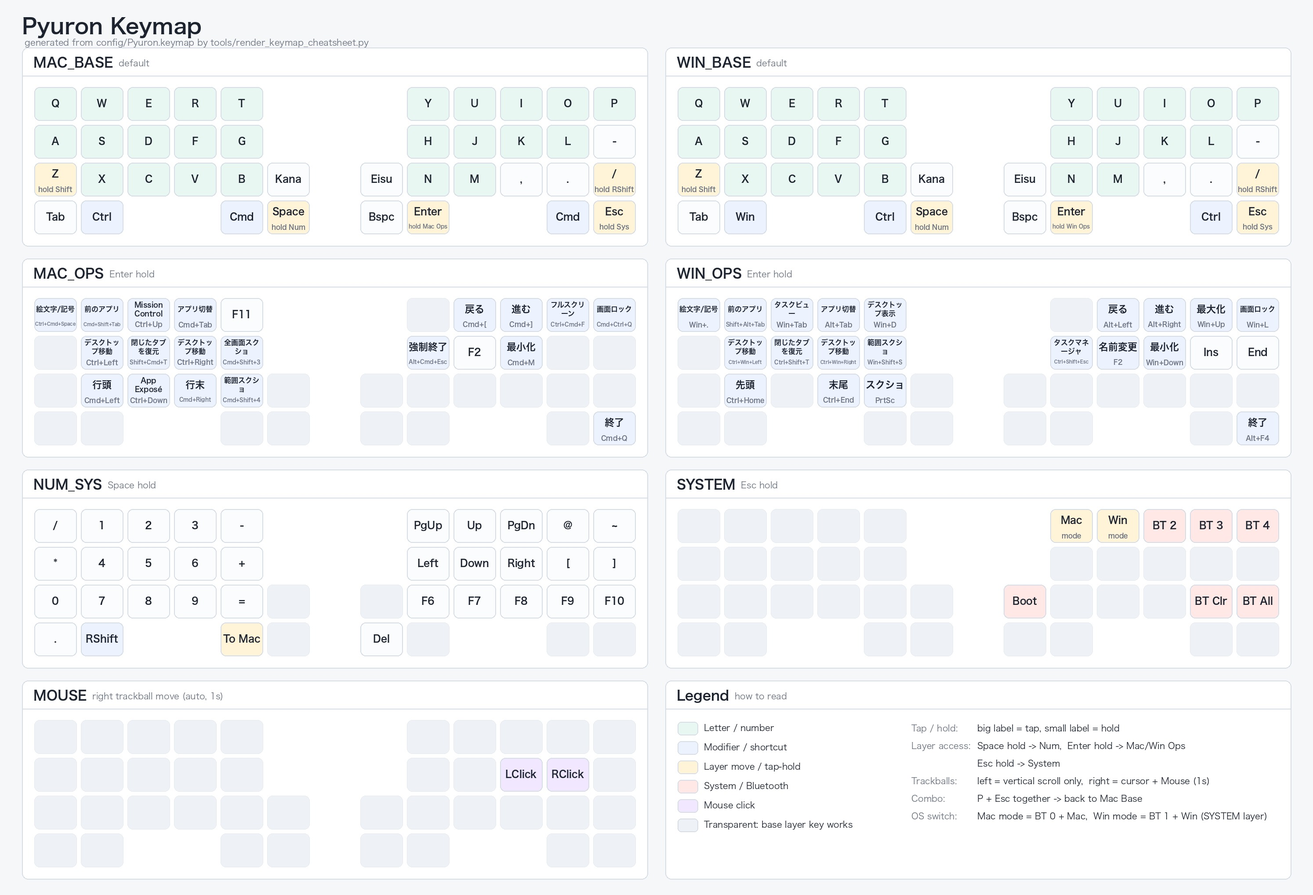
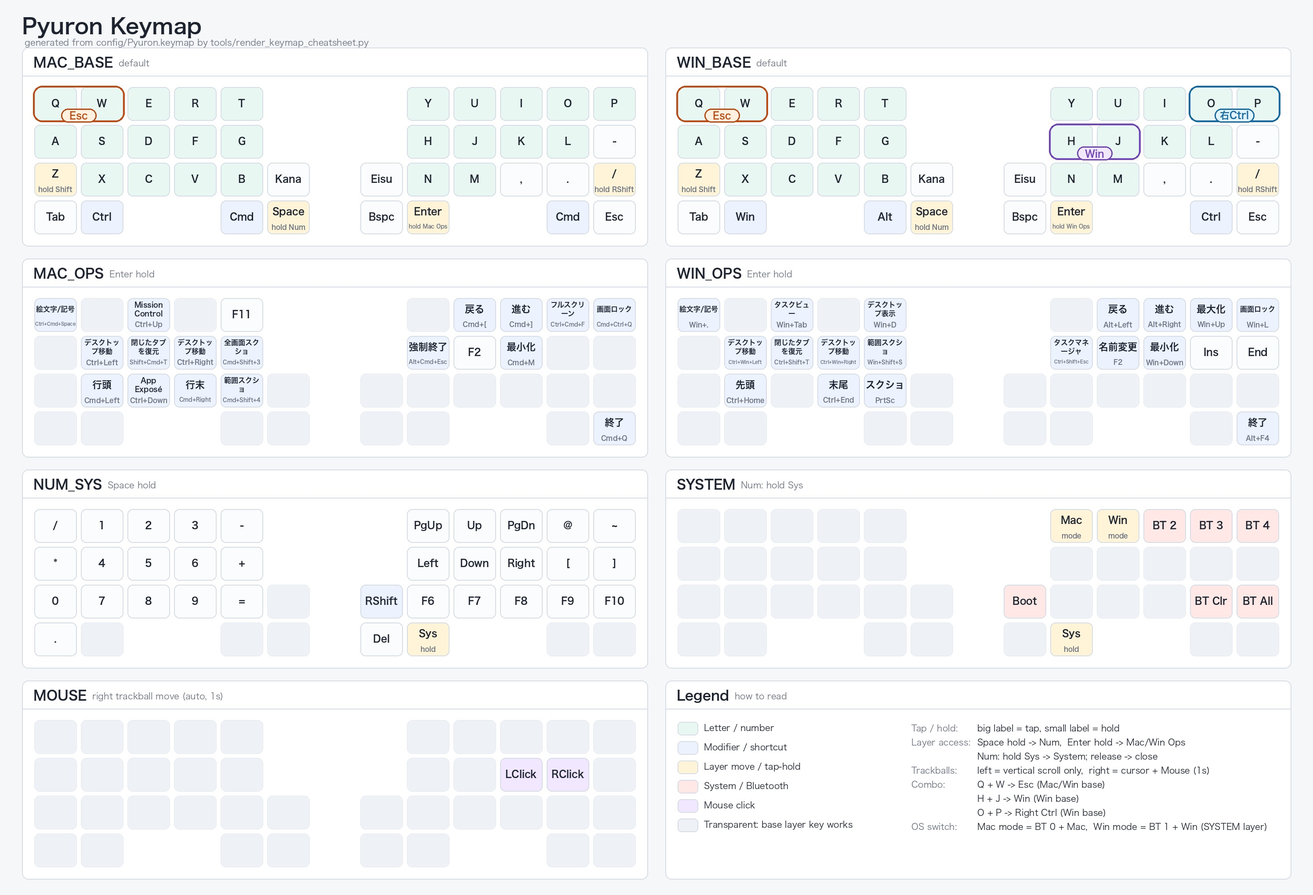
feat: 決定したキー配置とコンボ表示を反映

diff --git a/docs/keymap-cheatsheet.html b/docs/keymap-cheatsheet.html
@@ -431,7 +431,7 @@
       <div class="meta">
         <span class="pill">40 keys</span>
         <span class="pill">7 layers</span>
-        <span class="pill">combo Q + W -> Esc (MAC_BASE, WIN_BASE), H + J -> Win (WIN_BASE), O + P -> Right Ctrl (WIN_BASE), P + Esc -> To Mac (all layers)</span>
+        <span class="pill">combo Q + W -> Esc (MAC_BASE, WIN_BASE), H + J -> Win (WIN_BASE), O + P -> Right Ctrl (WIN_BASE)</span>
       </div>
     </header>
 
@@ -467,7 +467,7 @@
     // Do not hand-edit positions/layers below; re-run the script instead.
     const positions = [{"row": 0, "col": 0, "x": 0, "y": 0}, {"row": 0, "col": 1, "x": 1, "y": 0}, {"row": 0, "col": 2, "x": 2, "y": 0}, {"row": 0, "col": 3, "x": 3, "y": 0}, {"row": 0, "col": 4, "x": 4, "y": 0}, {"row": 0, "col": 5, "x": 8, "y": 0}, {"row": 0, "col": 6, "x": 9, "y": 0}, {"row": 0, "col": 7, "x": 10, "y": 0}, {"row": 0, "col": 8, "x": 11, "y": 0}, {"row": 0, "col": 9, "x": 12, "y": 0}, {"row": 1, "col": 0, "x": 0, "y": 1}, {"row": 1, "col": 1, "x": 1, "y": 1}, {"row": 1, "col": 2, "x": 2, "y": 1}, {"row": 1, "col": 3, "x": 3, "y": 1}, {"row": 1, "col": 4, "x": 4, "y": 1}, {"row": 1, "col": 5, "x": 8, "y": 1}, {"row": 1, "col": 6, "x": 9, "y": 1}, {"row": 1, "col": 7, "x": 10, "y": 1}, {"row": 1, "col": 8, "x": 11, "y": 1}, {"row": 1, "col": 9, "x": 12, "y": 1}, {"row": 2, "col": 0, "x": 0, "y": 2}, {"row": 2, "col": 1, "x": 1, "y": 2}, {"row": 2, "col": 2, "x": 2, "y": 2}, {"row": 2, "col": 3, "x": 3, "y": 2}, {"row": 2, "col": 4, "x": 4, "y": 2}, {"row": 2, "col": 5, "x": 5, "y": 2}, {"row": 2, "col": 6, "x": 7, "y": 2}, {"row": 2, "col": 7, "x": 8, "y": 2}, {"row": 2, "col": 8, "x": 9, "y": 2}, {"row": 2, "col": 9, "x": 10, "y": 2}, {"row": 3, "col": 0, "x": 11, "y": 2}, {"row": 3, "col": 1, "x": 12, "y": 2}, {"row": 3, "col": 2, "x": 0, "y": 3}, {"row": 3, "col": 3, "x": 1, "y": 3}, {"row": 3, "col": 4, "x": 4, "y": 3}, {"row": 3, "col": 5, "x": 5, "y": 3}, {"row": 3, "col": 6, "x": 7, "y": 3}, {"row": 3, "col": 7, "x": 8, "y": 3}, {"row": 3, "col": 8, "x": 11, "y": 3}, {"row": 3, "col": 9, "x": 12, "y": 3}];
 
-    const layers = [{"name": "MAC_BASE", "group": "mac", "note": "default", "keys": [["Q", "", "letter"], ["W", "", "letter"], ["E", "", "letter"], ["R", "", "letter"], ["T", "", "letter"], ["Y", "", "letter"], ["U", "", "letter"], ["I", "", "letter"], ["O", "", "letter"], ["P", "", "letter"], ["A", "", "letter"], ["S", "", "letter"], ["D", "", "letter"], ["F", "", "letter"], ["G", "", "letter"], ["H", "", "letter"], ["J", "", "letter"], ["K", "", "letter"], ["L", "", "letter"], ["-", "", ""], ["Z", "hold Shift", "layer"], ["X", "", "letter"], ["C", "", "letter"], ["V", "", "letter"], ["B", "", "letter"], ["Kana", "", ""], ["Eisu", "", ""], ["N", "", "letter"], ["M", "", "letter"], [",", "", ""], [".", "", ""], ["/", "hold RShift", "layer"], ["Tab", "", ""], ["Ctrl", "", "mod"], ["Cmd", "", "mod"], ["Space", "hold Num", "layer"], ["Bspc", "", ""], ["Enter", "hold Mac Ops", "layer"], ["Cmd", "", "mod"], ["Esc", "hold Sys", "layer"]]}, {"name": "MAC_OPS", "group": "mac", "note": "Enter hold", "keys": [["絵文字/記号", "Ctrl+Cmd+Space", "mod"], ["前のアプリ", "Cmd+Shift+Tab", "mod"], ["Mission Control", "Ctrl+Up", "mod"], ["アプリ切替", "Cmd+Tab", "mod"], ["F11", "", ""], ["trns", "", "transparent"], ["戻る", "Cmd+[", "mod"], ["進む", "Cmd+]", "mod"], ["フルスクリーン", "Ctrl+Cmd+F", "mod"], ["画面ロック", "Cmd+Ctrl+Q", "mod"], ["trns", "", "transparent"], ["デスクトップ移動", "Ctrl+Left", "mod"], ["閉じたタブを復元", "Shift+Cmd+T", "mod"], ["デスクトップ移動", "Ctrl+Right", "mod"], ["全画面スクショ", "Cmd+Shift+3", "mod"], ["強制終了", "Alt+Cmd+Esc", "mod"], ["F2", "", ""], ["最小化", "Cmd+M", "mod"], ["trns", "", "transparent"], ["trns", "", "transparent"], ["trns", "", "transparent"], ["行頭", "Cmd+Left", "mod"], ["App Exposé", "Ctrl+Down", "mod"], ["行末", "Cmd+Right", "mod"], ["範囲スクショ", "Cmd+Shift+4", "mod"], ["trns", "", "transparent"], ["trns", "", "transparent"], ["trns", "", "transparent"], ["trns", "", "transparent"], ["trns", "", "transparent"], ["trns", "", "transparent"], ["trns", "", "transparent"], ["trns", "", "transparent"], ["trns", "", "transparent"], ["trns", "", "transparent"], ["trns", "", "transparent"], ["trns", "", "transparent"], ["trns", "", "transparent"], ["trns", "", "transparent"], ["終了", "Cmd+Q", "mod"]]}, {"name": "WIN_BASE", "group": "win", "note": "default", "keys": [["Q", "", "letter"], ["W", "", "letter"], ["E", "", "letter"], ["R", "", "letter"], ["T", "", "letter"], ["Y", "", "letter"], ["U", "", "letter"], ["I", "", "letter"], ["O", "", "letter"], ["P", "", "letter"], ["A", "", "letter"], ["S", "", "letter"], ["D", "", "letter"], ["F", "", "letter"], ["G", "", "letter"], ["H", "", "letter"], ["J", "", "letter"], ["K", "", "letter"], ["L", "", "letter"], ["-", "", ""], ["Z", "hold Shift", "layer"], ["X", "", "letter"], ["C", "", "letter"], ["V", "", "letter"], ["B", "", "letter"], ["Kana", "", ""], ["Eisu", "", ""], ["N", "", "letter"], ["M", "", "letter"], [",", "", ""], [".", "", ""], ["/", "hold RShift", "layer"], ["Tab", "", ""], ["Win", "", "mod"], ["Ctrl", "", "mod"], ["Space", "hold Num", "layer"], ["Bspc", "", ""], ["Enter", "hold Win Ops", "layer"], ["Ctrl", "", "mod"], ["Esc", "hold Sys", "layer"]]}, {"name": "WIN_OPS", "group": "win", "note": "Enter hold", "keys": [["絵文字/記号", "Win+.", "mod"], ["前のアプリ", "Shift+Alt+Tab", "mod"], ["タスクビュー", "Win+Tab", "mod"], ["アプリ切替", "Alt+Tab", "mod"], ["デスクトップ表示", "Win+D", "mod"], ["trns", "", "transparent"], ["戻る", "Alt+Left", "mod"], ["進む", "Alt+Right", "mod"], ["最大化", "Win+Up", "mod"], ["画面ロック", "Win+L", "mod"], ["trns", "", "transparent"], ["デスクトップ移動", "Ctrl+Win+Left", "mod"], ["閉じたタブを復元", "Ctrl+Shift+T", "mod"], ["デスクトップ移動", "Ctrl+Win+Right", "mod"], ["範囲スクショ", "Win+Shift+S", "mod"], ["タスクマネージャ", "Ctrl+Shift+Esc", "mod"], ["名前変更", "F2", "mod"], ["最小化", "Win+Down", "mod"], ["Ins", "", ""], ["End", "", ""], ["trns", "", "transparent"], ["先頭", "Ctrl+Home", "mod"], ["trns", "", "transparent"], ["末尾", "Ctrl+End", "mod"], ["スクショ", "PrtSc", "mod"], ["trns", "", "transparent"], ["trns", "", "transparent"], ["trns", "", "transparent"], ["trns", "", "transparent"], ["trns", "", "transparent"], ["trns", "", "transparent"], ["trns", "", "transparent"], ["trns", "", "transparent"], ["trns", "", "transparent"], ["trns", "", "transparent"], ["trns", "", "transparent"], ["trns", "", "transparent"], ["trns", "", "transparent"], ["trns", "", "transparent"], ["終了", "Alt+F4", "mod"]]}, {"name": "NUM_SYS", "group": "utility", "note": "Space hold", "keys": [["/", "", ""], ["1", "", ""], ["2", "", ""], ["3", "", ""], ["-", "", ""], ["PgUp", "", ""], ["Up", "", ""], ["PgDn", "", ""], ["@", "", ""], ["~", "", ""], ["*", "", ""], ["4", "", ""], ["5", "", ""], ["6", "", ""], ["+", "", ""], ["Left", "", ""], ["Down", "", ""], ["Right", "", ""], ["[", "", ""], ["]", "", ""], ["0", "", ""], ["7", "", ""], ["8", "", ""], ["9", "", ""], ["=", "", ""], ["trns", "", "transparent"], ["trns", "", "transparent"], ["F6", "", ""], ["F7", "", ""], ["F8", "", ""], ["F9", "", ""], ["F10", "", ""], [".", "", ""], ["RShift", "", "mod"], ["To Mac", "", "layer"], ["trns", "", "transparent"], ["Del", "", ""], ["trns", "", "transparent"], ["trns", "", "transparent"], ["trns", "", "transparent"]]}, {"name": "SYSTEM", "group": "utility", "note": "Esc hold", "keys": [["trns", "", "transparent"], ["trns", "", "transparent"], ["trns", "", "transparent"], ["trns", "", "transparent"], ["trns", "", "transparent"], ["Mac", "mode", "layer"], ["Win", "mode", "layer"], ["BT 2", "", "system"], ["BT 3", "", "system"], ["BT 4", "", "system"], ["trns", "", "transparent"], ["trns", "", "transparent"], ["trns", "", "transparent"], ["trns", "", "transparent"], ["trns", "", "transparent"], ["trns", "", "transparent"], ["trns", "", "transparent"], ["trns", "", "transparent"], ["trns", "", "transparent"], ["trns", "", "transparent"], ["trns", "", "transparent"], ["trns", "", "transparent"], ["trns", "", "transparent"], ["trns", "", "transparent"], ["trns", "", "transparent"], ["trns", "", "transparent"], ["Boot", "", "system"], ["trns", "", "transparent"], ["trns", "", "transparent"], ["trns", "", "transparent"], ["BT Clr", "", "system"], ["BT All", "", "system"], ["trns", "", "transparent"], ["trns", "", "transparent"], ["trns", "", "transparent"], ["trns", "", "transparent"], ["trns", "", "transparent"], ["trns", "", "transparent"], ["trns", "", "transparent"], ["trns", "", "transparent"]]}, {"name": "MOUSE", "group": "utility", "note": "right trackball move (auto, 1s)", "keys": [["trns", "", "transparent"], ["trns", "", "transparent"], ["trns", "", "transparent"], ["trns", "", "transparent"], ["trns", "", "transparent"], ["trns", "", "transparent"], ["trns", "", "transparent"], ["trns", "", "transparent"], ["trns", "", "transparent"], ["trns", "", "transparent"], ["trns", "", "transparent"], ["trns", "", "transparent"], ["trns", "", "transparent"], ["trns", "", "transparent"], ["trns", "", "transparent"], ["trns", "", "transparent"], ["trns", "", "transparent"], ["LClick", "", "mouse"], ["RClick", "", "mouse"], ["trns", "", "transparent"], ["trns", "", "transparent"], ["trns", "", "transparent"], ["trns", "", "transparent"], ["trns", "", "transparent"], ["trns", "", "transparent"], ["trns", "", "transparent"], ["trns", "", "transparent"], ["trns", "", "transparent"], ["trns", "", "transparent"], ["trns", "", "transparent"], ["trns", "", "transparent"], ["trns", "", "transparent"], ["trns", "", "transparent"], ["trns", "", "transparent"], ["trns", "", "transparent"], ["trns", "", "transparent"], ["trns", "", "transparent"], ["trns", "", "transparent"], ["trns", "", "transparent"], ["trns", "", "transparent"]]}];
+    const layers = [{"name": "MAC_BASE", "group": "mac", "note": "default", "keys": [["Q", "", "letter"], ["W", "", "letter"], ["E", "", "letter"], ["R", "", "letter"], ["T", "", "letter"], ["Y", "", "letter"], ["U", "", "letter"], ["I", "", "letter"], ["O", "", "letter"], ["P", "", "letter"], ["A", "", "letter"], ["S", "", "letter"], ["D", "", "letter"], ["F", "", "letter"], ["G", "", "letter"], ["H", "", "letter"], ["J", "", "letter"], ["K", "", "letter"], ["L", "", "letter"], ["-", "", ""], ["Z", "hold Shift", "layer"], ["X", "", "letter"], ["C", "", "letter"], ["V", "", "letter"], ["B", "", "letter"], ["Kana", "", ""], ["Eisu", "", ""], ["N", "", "letter"], ["M", "", "letter"], [",", "", ""], [".", "", ""], ["/", "hold RShift", "layer"], ["Tab", "", ""], ["Ctrl", "", "mod"], ["Cmd", "", "mod"], ["Space", "hold Num", "layer"], ["Bspc", "", ""], ["Enter", "hold Mac Ops", "layer"], ["Cmd", "", "mod"], ["Esc", "", ""]]}, {"name": "MAC_OPS", "group": "mac", "note": "Enter hold", "keys": [["絵文字/記号", "Ctrl+Cmd+Space", "mod"], ["trns", "", "transparent"], ["Mission Control", "Ctrl+Up", "mod"], ["trns", "", "transparent"], ["F11", "", ""], ["trns", "", "transparent"], ["戻る", "Cmd+[", "mod"], ["進む", "Cmd+]", "mod"], ["フルスクリーン", "Ctrl+Cmd+F", "mod"], ["画面ロック", "Cmd+Ctrl+Q", "mod"], ["trns", "", "transparent"], ["デスクトップ移動", "Ctrl+Left", "mod"], ["閉じたタブを復元", "Shift+Cmd+T", "mod"], ["デスクトップ移動", "Ctrl+Right", "mod"], ["全画面スクショ", "Cmd+Shift+3", "mod"], ["強制終了", "Alt+Cmd+Esc", "mod"], ["F2", "", ""], ["最小化", "Cmd+M", "mod"], ["trns", "", "transparent"], ["trns", "", "transparent"], ["trns", "", "transparent"], ["行頭", "Cmd+Left", "mod"], ["App Exposé", "Ctrl+Down", "mod"], ["行末", "Cmd+Right", "mod"], ["範囲スクショ", "Cmd+Shift+4", "mod"], ["trns", "", "transparent"], ["trns", "", "transparent"], ["trns", "", "transparent"], ["trns", "", "transparent"], ["trns", "", "transparent"], ["trns", "", "transparent"], ["trns", "", "transparent"], ["trns", "", "transparent"], ["trns", "", "transparent"], ["trns", "", "transparent"], ["trns", "", "transparent"], ["trns", "", "transparent"], ["trns", "", "transparent"], ["trns", "", "transparent"], ["終了", "Cmd+Q", "mod"]]}, {"name": "WIN_BASE", "group": "win", "note": "default", "keys": [["Q", "", "letter"], ["W", "", "letter"], ["E", "", "letter"], ["R", "", "letter"], ["T", "", "letter"], ["Y", "", "letter"], ["U", "", "letter"], ["I", "", "letter"], ["O", "", "letter"], ["P", "", "letter"], ["A", "", "letter"], ["S", "", "letter"], ["D", "", "letter"], ["F", "", "letter"], ["G", "", "letter"], ["H", "", "letter"], ["J", "", "letter"], ["K", "", "letter"], ["L", "", "letter"], ["-", "", ""], ["Z", "hold Shift", "layer"], ["X", "", "letter"], ["C", "", "letter"], ["V", "", "letter"], ["B", "", "letter"], ["Kana", "", ""], ["Eisu", "", ""], ["N", "", "letter"], ["M", "", "letter"], [",", "", ""], [".", "", ""], ["/", "hold RShift", "layer"], ["Tab", "", ""], ["Win", "", "mod"], ["Alt", "", "mod"], ["Space", "hold Num", "layer"], ["Bspc", "", ""], ["Enter", "hold Win Ops", "layer"], ["Ctrl", "", "mod"], ["Esc", "", ""]]}, {"name": "WIN_OPS", "group": "win", "note": "Enter hold", "keys": [["絵文字/記号", "Win+.", "mod"], ["trns", "", "transparent"], ["タスクビュー", "Win+Tab", "mod"], ["trns", "", "transparent"], ["デスクトップ表示", "Win+D", "mod"], ["trns", "", "transparent"], ["戻る", "Alt+Left", "mod"], ["進む", "Alt+Right", "mod"], ["最大化", "Win+Up", "mod"], ["画面ロック", "Win+L", "mod"], ["trns", "", "transparent"], ["デスクトップ移動", "Ctrl+Win+Left", "mod"], ["閉じたタブを復元", "Ctrl+Shift+T", "mod"], ["デスクトップ移動", "Ctrl+Win+Right", "mod"], ["範囲スクショ", "Win+Shift+S", "mod"], ["タスクマネージャ", "Ctrl+Shift+Esc", "mod"], ["名前変更", "F2", "mod"], ["最小化", "Win+Down", "mod"], ["Ins", "", ""], ["End", "", ""], ["trns", "", "transparent"], ["先頭", "Ctrl+Home", "mod"], ["trns", "", "transparent"], ["末尾", "Ctrl+End", "mod"], ["スクショ", "PrtSc", "mod"], ["trns", "", "transparent"], ["trns", "", "transparent"], ["trns", "", "transparent"], ["trns", "", "transparent"], ["trns", "", "transparent"], ["trns", "", "transparent"], ["trns", "", "transparent"], ["trns", "", "transparent"], ["trns", "", "transparent"], ["trns", "", "transparent"], ["trns", "", "transparent"], ["trns", "", "transparent"], ["trns", "", "transparent"], ["trns", "", "transparent"], ["終了", "Alt+F4", "mod"]]}, {"name": "NUM_SYS", "group": "utility", "note": "Space hold", "keys": [["/", "", ""], ["1", "", ""], ["2", "", ""], ["3", "", ""], ["-", "", ""], ["PgUp", "", ""], ["Up", "", ""], ["PgDn", "", ""], ["@", "", ""], ["~", "", ""], ["*", "", ""], ["4", "", ""], ["5", "", ""], ["6", "", ""], ["+", "", ""], ["Left", "", ""], ["Down", "", ""], ["Right", "", ""], ["[", "", ""], ["]", "", ""], ["0", "", ""], ["7", "", ""], ["8", "", ""], ["9", "", ""], ["=", "", ""], ["trns", "", "transparent"], ["RShift", "", "mod"], ["F6", "", ""], ["F7", "", ""], ["F8", "", ""], ["F9", "", ""], ["F10", "", ""], [".", "", ""], ["trns", "", "transparent"], ["trns", "", "transparent"], ["trns", "", "transparent"], ["Del", "", ""], ["Sys", "hold", "layer"], ["trns", "", "transparent"], ["trns", "", "transparent"]]}, {"name": "SYSTEM", "group": "utility", "note": "Num: hold Sys", "keys": [["trns", "", "transparent"], ["trns", "", "transparent"], ["trns", "", "transparent"], ["trns", "", "transparent"], ["trns", "", "transparent"], ["Mac", "mode", "layer"], ["Win", "mode", "layer"], ["BT 2", "", "system"], ["BT 3", "", "system"], ["BT 4", "", "system"], ["trns", "", "transparent"], ["trns", "", "transparent"], ["trns", "", "transparent"], ["trns", "", "transparent"], ["trns", "", "transparent"], ["trns", "", "transparent"], ["trns", "", "transparent"], ["trns", "", "transparent"], ["trns", "", "transparent"], ["trns", "", "transparent"], ["trns", "", "transparent"], ["trns", "", "transparent"], ["trns", "", "transparent"], ["trns", "", "transparent"], ["trns", "", "transparent"], ["trns", "", "transparent"], ["Boot", "", "system"], ["trns", "", "transparent"], ["trns", "", "transparent"], ["trns", "", "transparent"], ["BT Clr", "", "system"], ["BT All", "", "system"], ["trns", "", "transparent"], ["trns", "", "transparent"], ["trns", "", "transparent"], ["trns", "", "transparent"], ["trns", "", "transparent"], ["Sys", "hold", "layer"], ["trns", "", "transparent"], ["trns", "", "transparent"]]}, {"name": "MOUSE", "group": "utility", "note": "right trackball move (auto, 1s)", "keys": [["trns", "", "transparent"], ["trns", "", "transparent"], ["trns", "", "transparent"], ["trns", "", "transparent"], ["trns", "", "transparent"], ["trns", "", "transparent"], ["trns", "", "transparent"], ["trns", "", "transparent"], ["trns", "", "transparent"], ["trns", "", "transparent"], ["trns", "", "transparent"], ["trns", "", "transparent"], ["trns", "", "transparent"], ["trns", "", "transparent"], ["trns", "", "transparent"], ["trns", "", "transparent"], ["trns", "", "transparent"], ["LClick", "", "mouse"], ["RClick", "", "mouse"], ["trns", "", "transparent"], ["trns", "", "transparent"], ["trns", "", "transparent"], ["trns", "", "transparent"], ["trns", "", "transparent"], ["trns", "", "transparent"], ["trns", "", "transparent"], ["trns", "", "transparent"], ["trns", "", "transparent"], ["trns", "", "transparent"], ["trns", "", "transparent"], ["trns", "", "transparent"], ["trns", "", "transparent"], ["trns", "", "transparent"], ["trns", "", "transparent"], ["trns", "", "transparent"], ["trns", "", "transparent"], ["trns", "", "transparent"], ["trns", "", "transparent"], ["trns", "", "transparent"], ["trns", "", "transparent"]]}];
 
     const app = document.querySelector("#app");
     const layersContainer = document.querySelector("#layers");

diff --git a/tools/render_keymap_cheatsheet.py b/tools/render_keymap_cheatsheet.py
@@ -178,7 +178,7 @@ LAYER_NOTES = {
     "WIN_BASE": "default",
     "WIN_OPS": "Enter hold",
     "NUM_SYS": "Space hold",
-    "SYSTEM": "Esc hold",
+    "SYSTEM": "Num: hold Sys",
     "MOUSE": "right trackball move (auto, 1s)",
 }
 
@@ -198,7 +198,7 @@ LAYER_DESCRIPTIONS = {
     "WIN_BASE": "Windows用の通常入力",
     "WIN_OPS": "Windows用操作レイヤー。`WIN_BASE` の `Enter` 長押し",
     "NUM_SYS": "数字・記号・カーソル。Baseの `Space` 長押し",
-    "SYSTEM": "Bluetooth・OS切替・Bootloader。Baseの `Esc` 長押し",
+    "SYSTEM": "Bluetooth・OS切替・Bootloader。NUM_SYSのDelete右隣を押している間だけ有効。離すと戻る",
     "MOUSE": "マウスクリック用。右トラックボールを動かすと1秒間自動で有効",
 }
 
@@ -358,6 +358,10 @@ def label_for(binding: str, layer_name: str) -> Label:
             return Label("BT All", kind="system")
         if len(parts) > 1 and parts[1] == "BT_CLR":
             return Label("BT Clr", kind="system")
+    if behavior == "&mo" and len(parts) > 1:
+        return Label(LAYER_NAMES.get(parts[1], f"L{parts[1]}"), hint="hold", kind="layer")
+    if behavior == "&tog" and len(parts) > 1:
+        return Label(LAYER_NAMES.get(parts[1], f"L{parts[1]}"), hint="toggle", kind="layer")
     if behavior == "&to" and len(parts) > 1:
         return Label(f"To {LAYER_NAMES.get(parts[1], f'L{parts[1]}')}", kind="layer")
     if behavior == "&lt" and len(parts) > 2:
@@ -561,7 +565,29 @@ def draw_layer(draw: ImageDraw.ImageDraw, x: int, y: int, name: str, labels: lis
         draw_key(draw, (key_x, key_y, key_x + KEY_W, key_y + KEY_H), label)
 
 
-def draw_legend(draw: ImageDraw.ImageDraw, x: int, y: int) -> None:
+def draw_combo_overlays(draw: ImageDraw.ImageDraw, x: int, y: int, name: str, positions: list[dict[str, int]], combos: list[tuple[list[int], str, list[str]]]) -> None:
+    if name not in {"MAC_BASE", "WIN_BASE"}:
+        return
+    palette = {"&kp ESC": ("#bd4c14", "#fff0df", "Esc"), "&kp LGUI": ("#7147b7", "#f1e8ff", "Win"), "&kp RCTRL": ("#176aa1", "#e0f3ff", "右Ctrl")}
+    for keys, target, scope in combos:
+        if (scope and name not in scope) or target not in palette or len(keys) != 2:
+            continue
+        a, b = sorted((positions[k] for k in keys), key=lambda p: p["x"])
+        if a["y"] != b["y"] or b["x"] - a["x"] != 1:
+            continue
+        stroke, fill, text = palette[target]
+        left = x + BOARD_PAD_X + a["x"] * (KEY_W + KEY_GAP)
+        top = y + HEAD_H + BOARD_PAD_TOP + a["y"] * (KEY_H + KEY_GAP)
+        right = left + 2 * KEY_W + KEY_GAP
+        draw.rounded_rectangle((left - 3, top - 3, right + 3, top + KEY_H + 3), radius=21, outline=stroke, width=4)
+        center = (left + right) / 2
+        width = max(80, text_size(draw, text, FONTS["key"])[0] + 24)
+        badge = (center - width / 2, top + KEY_H - 27, center + width / 2, top + KEY_H + 4)
+        draw.rounded_rectangle(badge, radius=15, fill=fill, outline=stroke, width=3)
+        centered_text(draw, badge, text, FONTS["key"], stroke)
+
+
+def draw_legend(draw: ImageDraw.ImageDraw, x: int, y: int, combo_notes: list[str]) -> None:
     draw_card_frame(draw, x, y, "Legend", "how to read")
 
     swatches = [
@@ -582,9 +608,9 @@ def draw_legend(draw: ImageDraw.ImageDraw, x: int, y: int) -> None:
     lines = [
         ("Tap / hold:", "big label = tap, small label = hold"),
         ("Layer access:", "Space hold -> Num,  Enter hold -> Mac/Win Ops"),
-        ("", "Esc hold -> System"),
+        ("", "Num: hold Sys -> System; release -> close"),
         ("Trackballs:", "left = vertical scroll only,  right = cursor + Mouse (1s)"),
-        ("Combo:", "P + Esc together -> back to Mac Base"),
+        *(("Combo:" if index == 0 else "", note) for index, note in enumerate(combo_notes)),
         ("OS switch:", "Mac mode = BT 0 + Mac,  Win mode = BT 1 + Win (SYSTEM layer)"),
     ]
     tx = x + 560
@@ -593,10 +619,12 @@ def draw_legend(draw: ImageDraw.ImageDraw, x: int, y: int) -> None:
         if head:
             draw.text((tx, ty), head, font=FONTS["note"], fill=COLORS["muted"])
         draw.text((tx + 150, ty), body, font=FONTS["note"], fill=COLORS["text"])
-        ty += 40
+        ty += 32
 
 
-def render_jpg(layers: dict[str, list[str]], positions: list[dict[str, int]]) -> None:
+def render_jpg(layers: dict[str, list[str]], positions: list[dict[str, int]], combos: list[tuple[list[int], str, list[str]]]) -> None:
+    base_labels = [label_for(binding, "MAC_BASE") for binding in layers["MAC_BASE"]]
+    combo_notes = [combo_description(keys, target, base_labels, scope).replace("MAC_BASE, WIN_BASE", "Mac/Win base").replace("WIN_BASE", "Win base") for keys, target, scope in combos]
     image = Image.new("RGB", (WIDTH, HEIGHT), COLORS["bg"])
     draw = ImageDraw.Draw(image)
     draw.text((MARGIN, 34), "Pyuron Keymap", font=FONTS["title"], fill=COLORS["text"])
@@ -608,10 +636,11 @@ def render_jpg(layers: dict[str, list[str]], positions: list[dict[str, int]]) ->
         for column_index, name in enumerate(row):
             x = MARGIN + column_index * (CARD_W + COLUMN_GAP)
             if name is None:
-                draw_legend(draw, x, y)
+                draw_legend(draw, x, y, combo_notes)
             else:
                 labels = [label_for(binding, name) for binding in layers[name]]
                 draw_layer(draw, x, y, name, labels, positions)
+                draw_combo_overlays(draw, x, y, name, positions, combos)
 
     OUTPUT_JPG.parent.mkdir(parents=True, exist_ok=True)
     image.save(OUTPUT_JPG, quality=92, optimize=True)
@@ -731,7 +760,7 @@ def main() -> int:
 
     combos = parse_combos(KEYMAP.read_text(encoding="utf-8"))
 
-    render_jpg(layers, positions)
+    render_jpg(layers, positions, combos)
 
     OUTPUT_MD.parent.mkdir(parents=True, exist_ok=True)
     OUTPUT_MD.write_text(render_markdown(layers, positions, combos), encoding="utf-8")

diff --git a/docs/keymap-cheatsheet.md b/docs/keymap-cheatsheet.md
@@ -20,7 +20,7 @@
 | 2 | `WIN_BASE` | Windows用の通常入力 |
 | 3 | `WIN_OPS` | Windows用操作レイヤー。`WIN_BASE` の `Enter` 長押し |
 | 4 | `NUM_SYS` | 数字・記号・カーソル。Baseの `Space` 長押し |
-| 5 | `SYSTEM` | Bluetooth・OS切替・Bootloader。Baseの `Esc` 長押し |
+| 5 | `SYSTEM` | Bluetooth・OS切替・Bootloader。NUM_SYSのDelete右隣を押している間だけ有効。離すと戻る |
 | 6 | `MOUSE` | マウスクリック用。右トラックボールを動かすと1秒間自動で有効 |
 
 ## 読み方
@@ -35,7 +35,6 @@
 - コンボ: `Q + W -> Esc (MAC_BASE, WIN_BASE)`
 - コンボ: `H + J -> Win (WIN_BASE)`
 - コンボ: `O + P -> Right Ctrl (WIN_BASE)`
-- コンボ: `P + Esc -> To Mac (all layers)`
 
 ## MAC_BASE
 
@@ -44,13 +43,13 @@
 | Q | W | E | R | T |  |  |  | Y | U | I | O | P |
 | A | S | D | F | G |  |  |  | H | J | K | L | - |
 | Z / hold Shift | X | C | V | B | Kana |  | Eisu | N | M | , | . | / / hold RShift |
-| Tab | Ctrl |  |  | Cmd | Space / hold Num |  | Bspc | Enter / hold Mac Ops |  |  | Cmd | Esc / hold Sys |
+| Tab | Ctrl |  |  | Cmd | Space / hold Num |  | Bspc | Enter / hold Mac Ops |  |  | Cmd | Esc |
 
 ## MAC_OPS
 
 | x0 | x1 | x2 | x3 | x4 | x5 | x6 | x7 | x8 | x9 | x10 | x11 | x12 |
 | --- | --- | --- | --- | --- | --- | --- | --- | --- | --- | --- | --- | --- |
-| 絵文字/記号 / Ctrl+Cmd+Space | 前のアプリ / Cmd+Shift+Tab | Mission Control / Ctrl+Up | アプリ切替 / Cmd+Tab | F11 |  |  |  | trns | 戻る / Cmd+[ | 進む / Cmd+] | フルスクリーン / Ctrl+Cmd+F | 画面ロック / Cmd+Ctrl+Q |
+| 絵文字/記号 / Ctrl+Cmd+Space | trns | Mission Control / Ctrl+Up | trns | F11 |  |  |  | trns | 戻る / Cmd+[ | 進む / Cmd+] | フルスクリーン / Ctrl+Cmd+F | 画面ロック / Cmd+Ctrl+Q |
 | trns | デスクトップ移動 / Ctrl+Left | 閉じたタブを復元 / Shift+Cmd+T | デスクトップ移動 / Ctrl+Right | 全画面スクショ / Cmd+Shift+3 |  |  |  | 強制終了 / Alt+Cmd+Esc | F2 | 最小化 / Cmd+M | trns | trns |
 | trns | 行頭 / Cmd+Left | App Exposé / Ctrl+Down | 行末 / Cmd+Right | 範囲スクショ / Cmd+Shift+4 | trns |  | trns | trns | trns | trns | trns | trns |
 | trns | trns |  |  | trns | trns |  | trns | trns |  |  | trns | 終了 / Cmd+Q |
@@ -62,13 +61,13 @@
 | Q | W | E | R | T |  |  |  | Y | U | I | O | P |
 | A | S | D | F | G |  |  |  | H | J | K | L | - |
 | Z / hold Shift | X | C | V | B | Kana |  | Eisu | N | M | , | . | / / hold RShift |
-| Tab | Win |  |  | Ctrl | Space / hold Num |  | Bspc | Enter / hold Win Ops |  |  | Ctrl | Esc / hold Sys |
+| Tab | Win |  |  | Alt | Space / hold Num |  | Bspc | Enter / hold Win Ops |  |  | Ctrl | Esc |
 
 ## WIN_OPS
 
 | x0 | x1 | x2 | x3 | x4 | x5 | x6 | x7 | x8 | x9 | x10 | x11 | x12 |
 | --- | --- | --- | --- | --- | --- | --- | --- | --- | --- | --- | --- | --- |
-| 絵文字/記号 / Win+. | 前のアプリ / Shift+Alt+Tab | タスクビュー / Win+Tab | アプリ切替 / Alt+Tab | デスクトップ表示 / Win+D |  |  |  | trns | 戻る / Alt+Left | 進む / Alt+Right | 最大化 / Win+Up | 画面ロック / Win+L |
+| 絵文字/記号 / Win+. | trns | タスクビュー / Win+Tab | trns | デスクトップ表示 / Win+D |  |  |  | trns | 戻る / Alt+Left | 進む / Alt+Right | 最大化 / Win+Up | 画面ロック / Win+L |
 | trns | デスクトップ移動 / Ctrl+Win+Left | 閉じたタブを復元 / Ctrl+Shift+T | デスクトップ移動 / Ctrl+Win+Right | 範囲スクショ / Win+Shift+S |  |  |  | タスクマネージャ / Ctrl+Shift+Esc | 名前変更 / F2 | 最小化 / Win+Down | Ins | End |
 | trns | 先頭 / Ctrl+Home | trns | 末尾 / Ctrl+End | スクショ / PrtSc | trns |  | trns | trns | trns | trns | trns | trns |
 | trns | trns |  |  | trns | trns |  | trns | trns |  |  | trns | 終了 / Alt+F4 |
@@ -79,8 +78,8 @@
 | --- | --- | --- | --- | --- | --- | --- | --- | --- | --- | --- | --- | --- |
 | / | 1 | 2 | 3 | - |  |  |  | PgUp | Up | PgDn | @ | ~ |
 | * | 4 | 5 | 6 | + |  |  |  | Left | Down | Right | [ | ] |
-| 0 | 7 | 8 | 9 | = | trns |  | trns | F6 | F7 | F8 | F9 | F10 |
-| . | RShift |  |  | To Mac | trns |  | Del | trns |  |  | trns | trns |
+| 0 | 7 | 8 | 9 | = | trns |  | RShift | F6 | F7 | F8 | F9 | F10 |
+| . | trns |  |  | trns | trns |  | Del | Sys / hold |  |  | trns | trns |
 
 ## SYSTEM
 
@@ -89,7 +88,7 @@
 | trns | trns | trns | trns | trns |  |  |  | Mac / mode | Win / mode | BT 2 | BT 3 | BT 4 |
 | trns | trns | trns | trns | trns |  |  |  | trns | trns | trns | trns | trns |
 | trns | trns | trns | trns | trns | trns |  | Boot | trns | trns | trns | BT Clr | BT All |
-| trns | trns |  |  | trns | trns |  | trns | trns |  |  | trns | trns |
+| trns | trns |  |  | trns | trns |  | trns | Sys / hold |  |  | trns | trns |
 
 ## MOUSE
 
